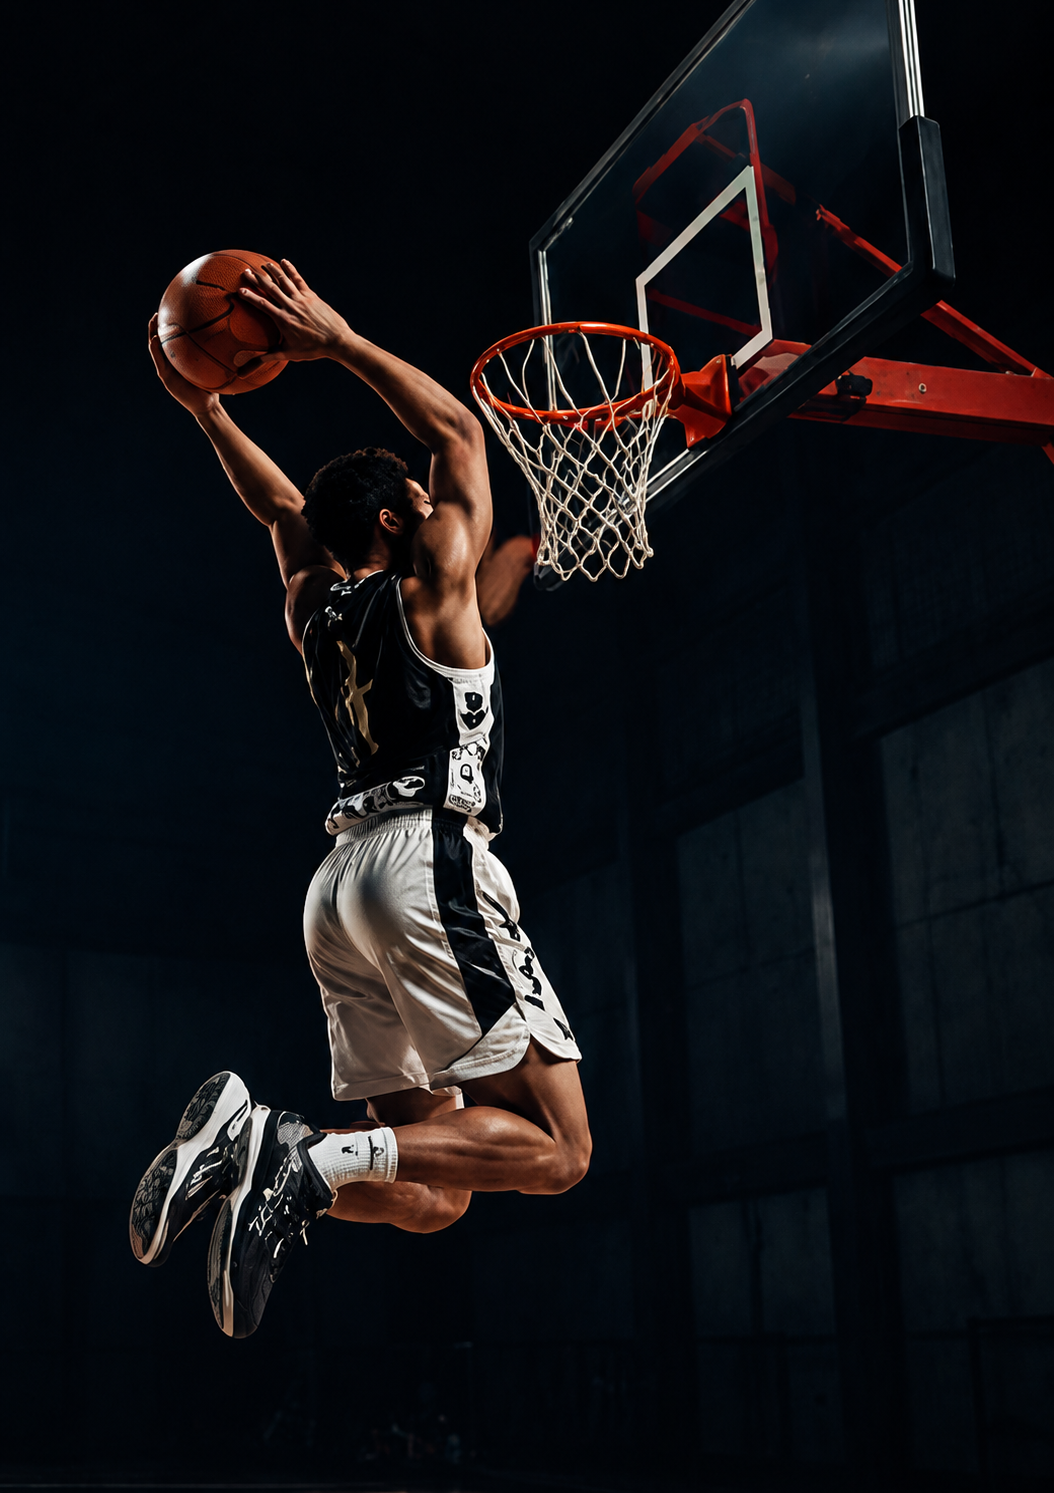
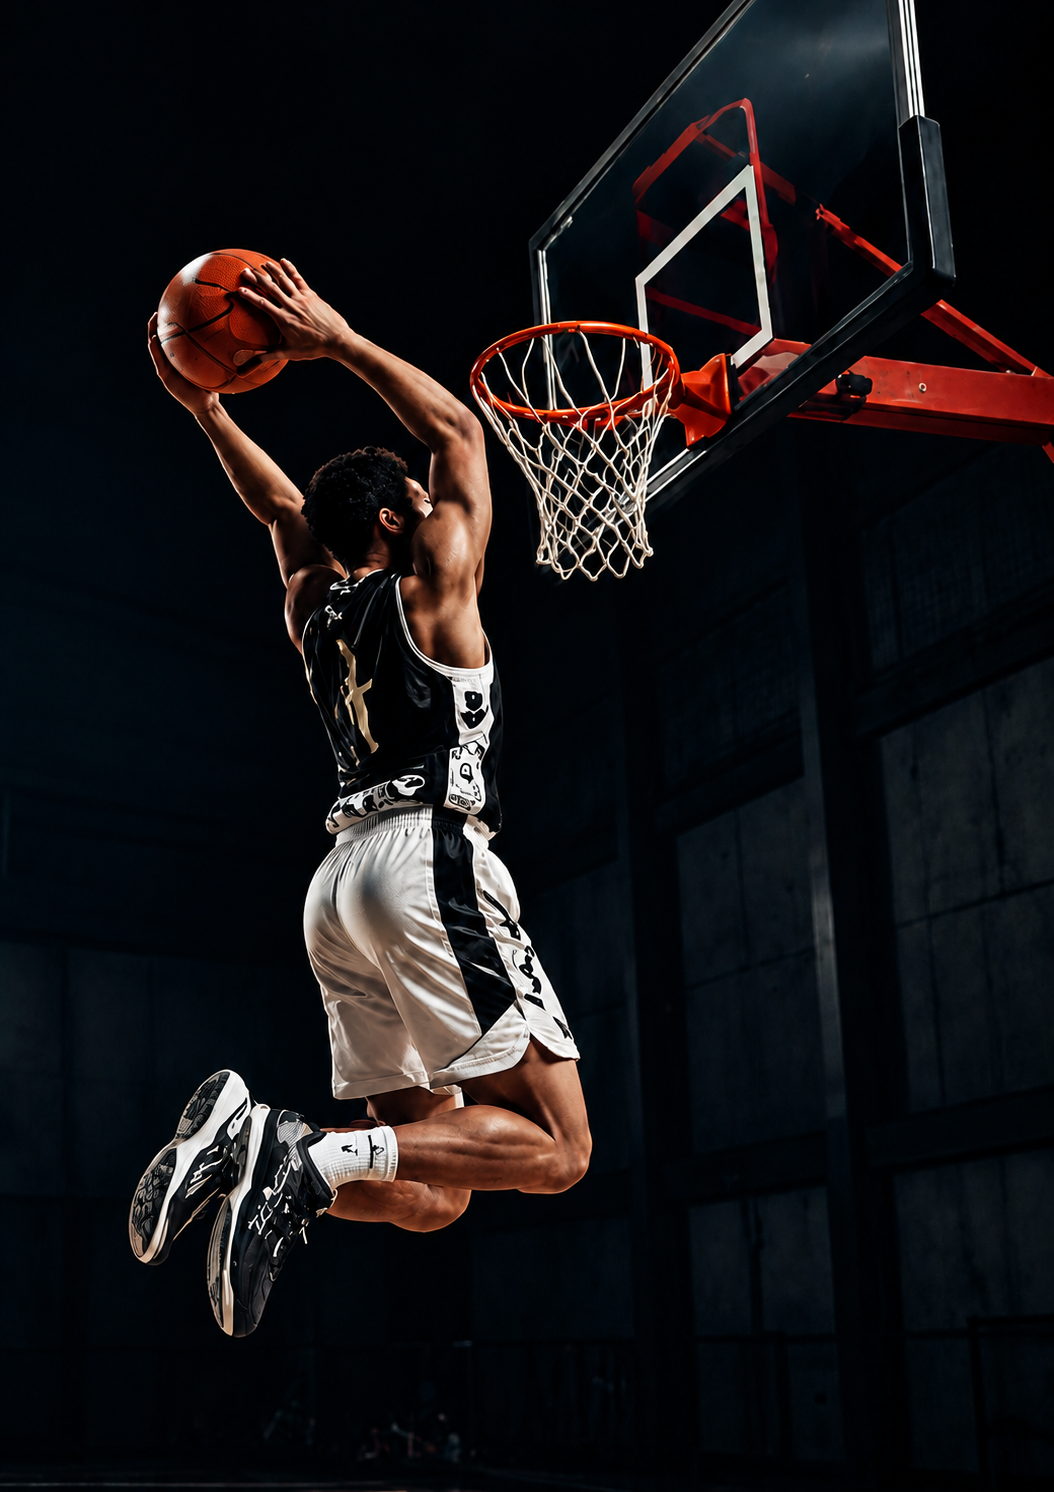
20261012

diff --git a/index.html b/index.html
@@ -39,7 +39,10 @@
   <div class="nav-scrim"></div>
 
   <section class="hero">
-    <img src="assets/hero-full.png" alt="Hero photo: athlete sprinting next to PULSE jacket close-up" class="hero-bg">
+    <picture>
+      <source media="(max-width: 860px)" srcset="assets/hero-スマホ.png">
+      <img src="assets/hero-full.png" alt="Hero photo: athlete sprinting next to PULSE jacket close-up" class="hero-bg">
+    </picture>
     <div class="hero-overlay"></div>
     <div class="hero-content-wrap">
       <div class="hero-content reveal">
@@ -87,7 +90,10 @@
   </section>
 
   <section class="innovation">
-    <img src="assets/innovation-bg.png" alt="Photo: four athletes lineup, dramatic blue tech lighting" class="innovation-bg">
+    <picture>
+      <source media="(max-width: 860px)" srcset="assets/innovation-bg-スマホ.png">
+      <img src="assets/innovation-bg.png" alt="Photo: four athletes lineup, dramatic blue tech lighting" class="innovation-bg">
+    </picture>
     <div class="innovation-overlay"></div>
     <div class="innovation-content reveal">
       <span class="innovation-label">INNOVATION</span>
